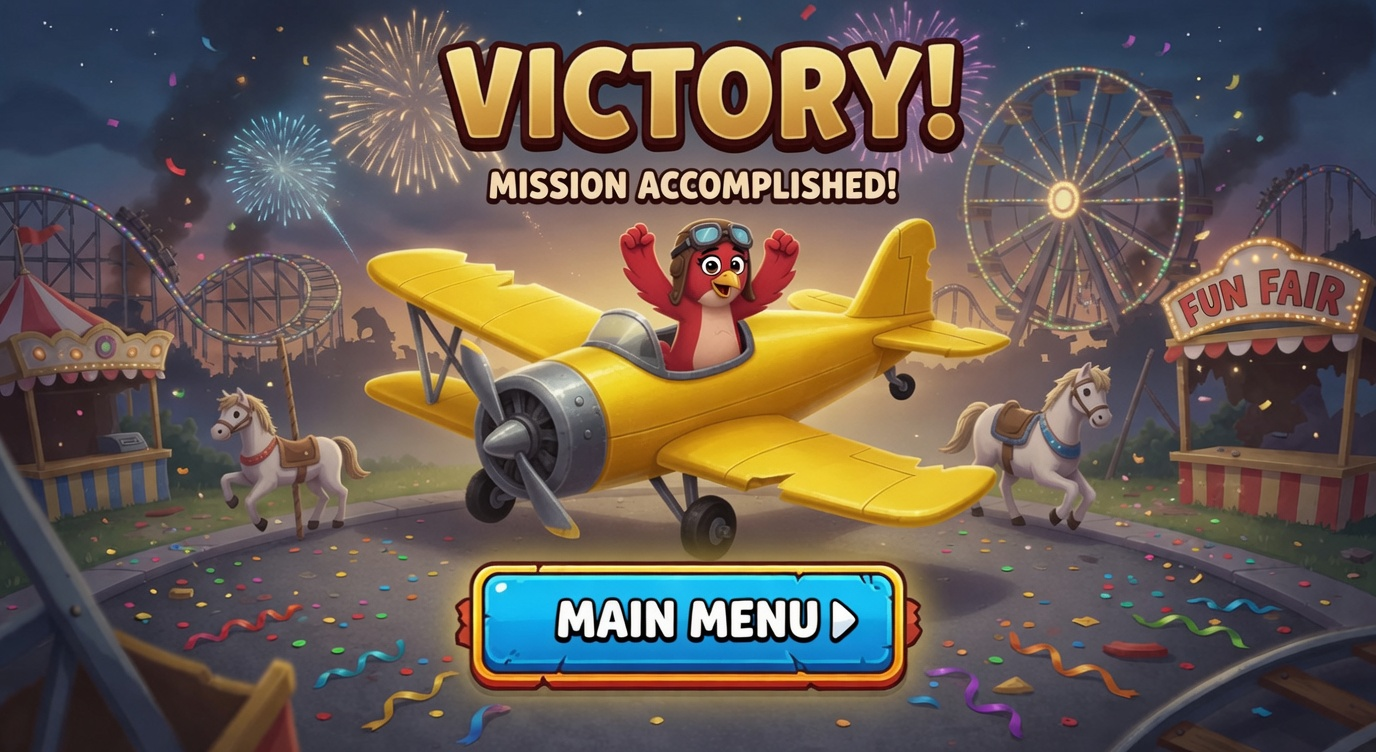
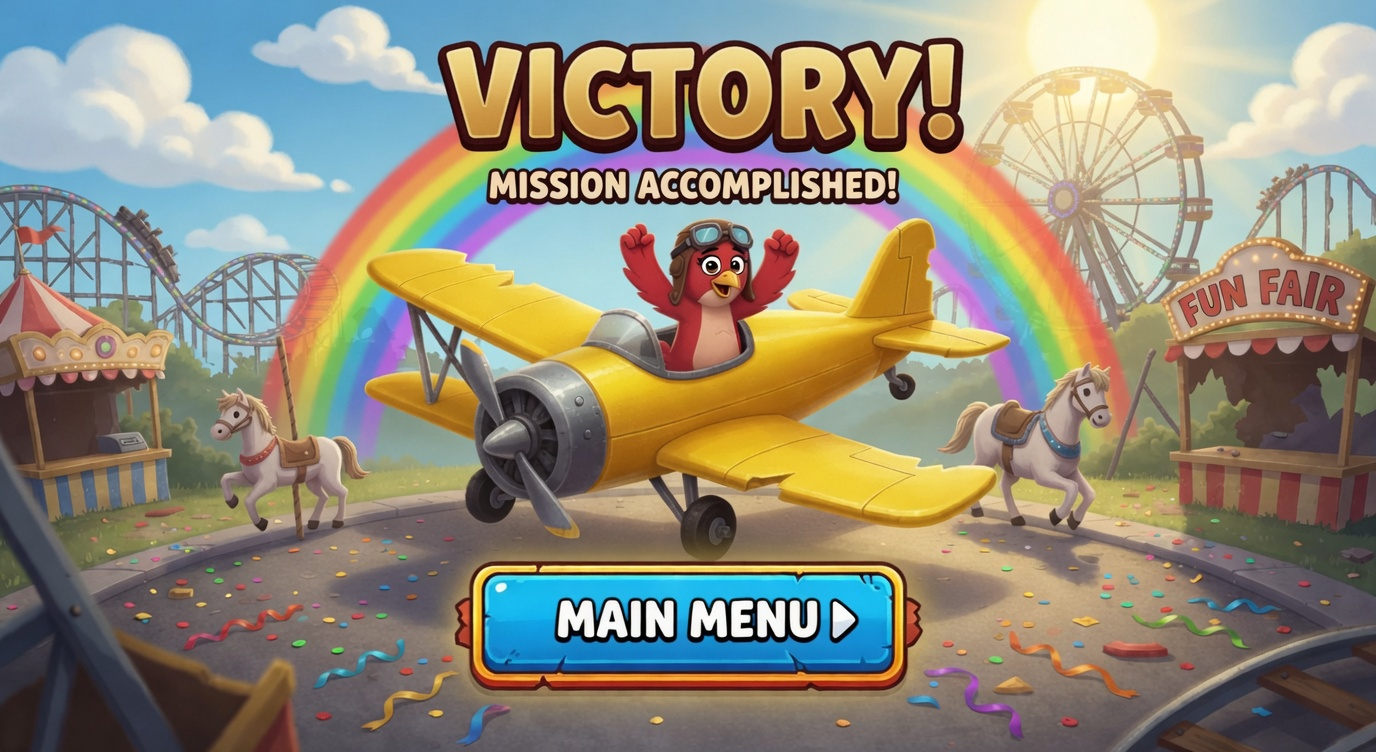
updated win screen, loss screen, and main menu. started to work on improving boss fire

diff --git a/sketch.js b/sketch.js
@@ -57,8 +57,8 @@ function preload(){
   rocketProjectileImg = loadImage("rocketprojectile.png");
   clownProjectileImg = loadImage("clownprojectile.png");
   crazyClownProjectileImg = loadImage("crazyclownprojectile.png");
-  mainMenuImg = loadImage("mainmenu.png");
-  lossScreenImg = loadImage("lossscreen.png");
+  mainMenuImg = loadImage("mainmenu.jpeg");
+  lossScreenImg = loadImage("lossscreen.jpeg");
   heartImg = loadImage("heart.png");
   amusementBossImg = loadImage("amusementboss.png");
   bossProjectileImg = loadImage("bossprojectile.png");
@@ -86,7 +86,6 @@ function draw() {
   createHearts();
   displayScore();
   endGame();
-  displayBossHealth();
 }
 
 function createMainMenu(){
@@ -502,14 +501,14 @@ class EnemyProjectile extends Projectiles{
 class BossProjectiles extends Projectiles{
   constructor(x, y, dx, dy, theImage){
     super(x, y, dx, dy, theImage);
-
-    this.dx = random(-10, -1);
-    this.dy = random(10, 10);
   }
     
   update(){
-    this.x += this.dx;
-    this.y += this.dy;
+    push();
+   
+    rotate(random(-180, 180));
+
+    pop();
   }
 }
 
